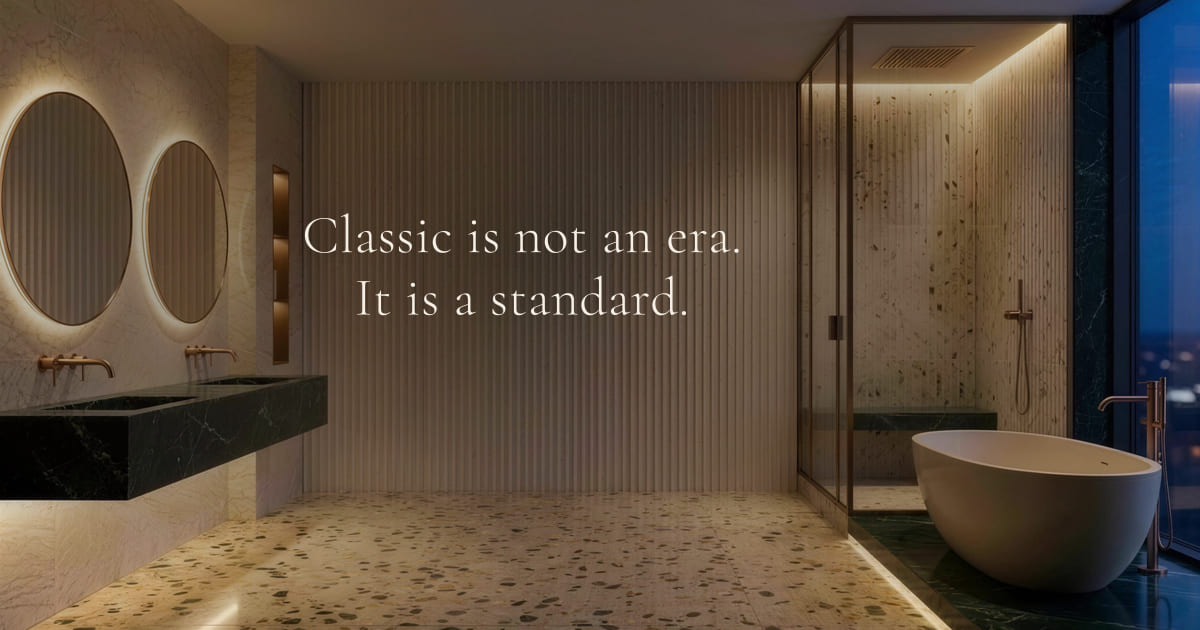
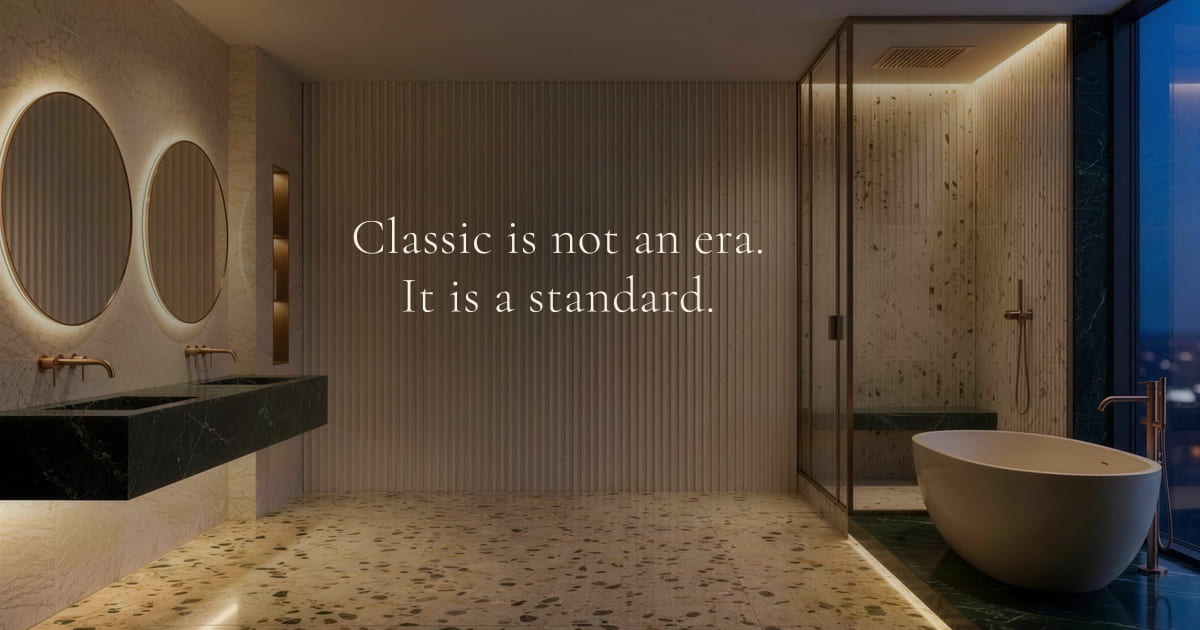
Nudge hero quote right of the wall's centre
Centring the quote on the fluted wall alone (43.5%) read as off-centre,
because the wall itself sits left of the frame — bounded by the marble corner
at x 21.9% and the shower's glass frame at x 65%. Move the anchor to 46.5%,
which splits the difference against the frame's centre while keeping the
longest line clear of the glass frame; dead centre would crowd it.

Move the scrim's radial centre to match, and trim the share image's fill
factor so the baked quote keeps the same clearance at its new position.

Measured after the move: the quote holds 7.9:1 average contrast and the
sub-line 4.8:1 against its worst-case backdrop pixel, both still passing.

Changed region(s): [[0.2467, 0.3317, 0.6167, 0.5127], [0.2775, 0.4524, 0.3083, 0.4825]]

diff --git a/src/components/sections/hero.tsx b/src/components/sections/hero.tsx
@@ -8,10 +8,14 @@ import { HeroMedia } from "./hero-media";
 import { HeroScrollCue } from "./hero-scroll-cue";
 
 /**
- * The quote is positioned over the one region of the photograph flat enough to
- * carry type — the fluted wall, measured at x 25–62%, y 11–67% of the source.
- * Hence the 43.5% horizontal anchor on large screens rather than dead centre,
- * and the bottom padding that lifts the block above the optical middle.
+ * The quote sits over the fluted wall, the one region of the photograph flat
+ * and dark enough to carry type. The wall is bounded by the marble corner at
+ * x 21.9% and the shower's glass frame at x 65%, so its true centre is 43.5%.
+ *
+ * The anchor is nudged right of that to 46.5%: centring on the wall alone
+ * reads as off-centre against the browser frame, since the wall itself sits
+ * left of the middle. 46.5% splits the difference and still leaves clearance
+ * before the glass frame. Dead centre (50%) would crowd it.
  *
  * On phones `object-position: 43.5%` crops to x 30.6–56.4%, which sits inside
  * the same safe zone, so a single landscape asset covers every breakpoint.
@@ -25,7 +29,7 @@ export function Hero() {
         {/* 37rem is the widest the block can be before the longest line
             outgrows the flat wall behind it and starts crossing the shower
             frame. The type ceiling is set from the same constraint. */}
-        <div className="px-gutter mx-auto w-full max-w-[37rem] text-center lg:mx-0 lg:ml-[43.5%] lg:-translate-x-1/2">
+        <div className="px-gutter mx-auto w-full max-w-[37rem] text-center lg:mx-0 lg:ml-[46.5%] lg:-translate-x-1/2">
           <SplitHeading
             as="h1"
             className="font-display text-ink text-[clamp(2.25rem,4.6vw,4.25rem)] leading-[1.12] tracking-[-0.01em]"

diff --git a/src/app/globals.css b/src/app/globals.css
@@ -141,7 +141,7 @@
   .hero-scrim {
     background:
       radial-gradient(
-        72% 62% at 43.5% 42%,
+        72% 62% at 46.5% 42%,
         color-mix(in oklab, var(--warm-black) 56%, transparent) 0%,
         color-mix(in oklab, var(--warm-black) 34%, transparent) 55%,
         color-mix(in oklab, var(--warm-black) 6%, transparent) 100%
